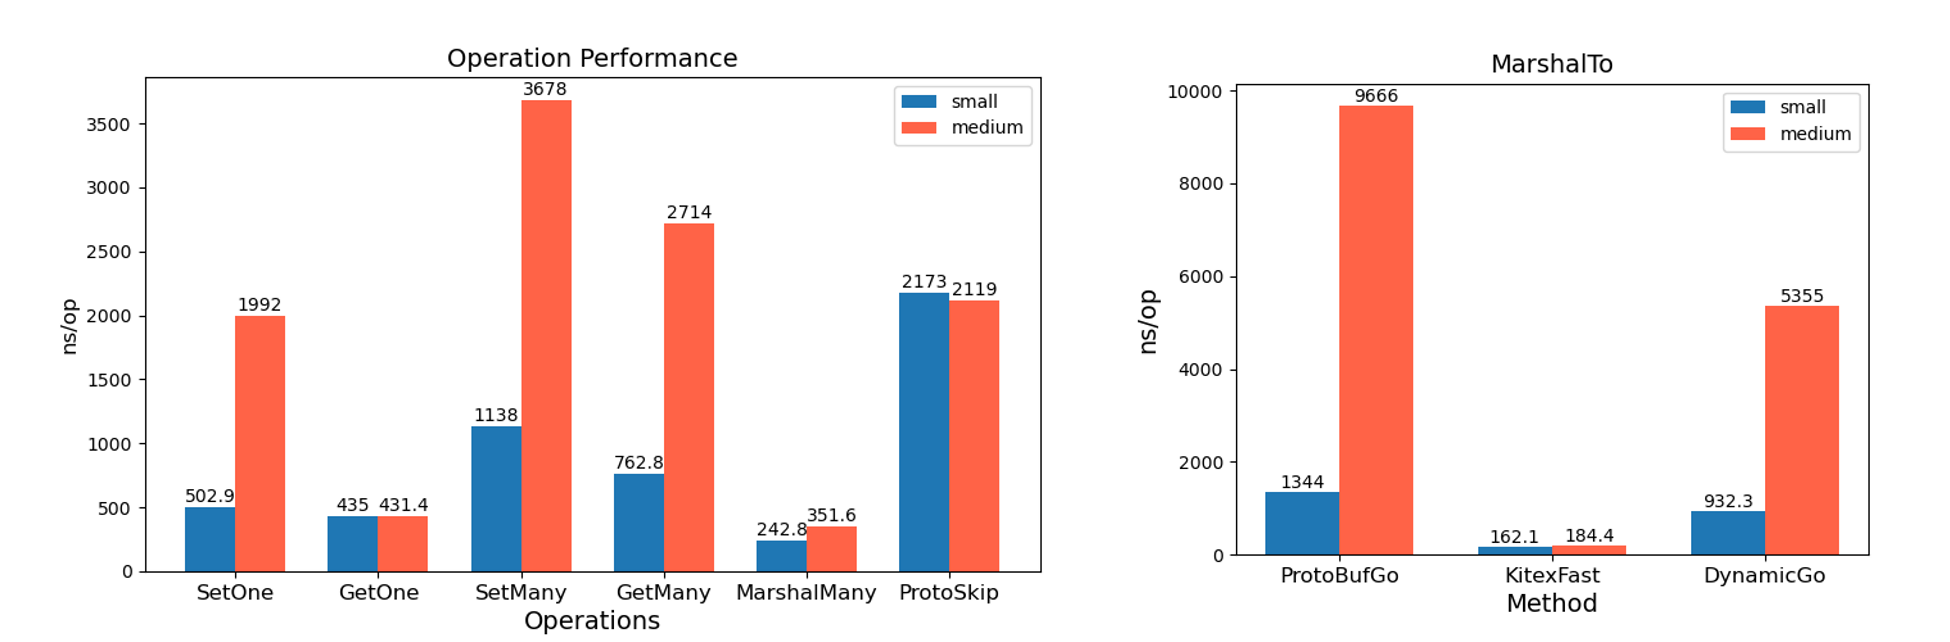
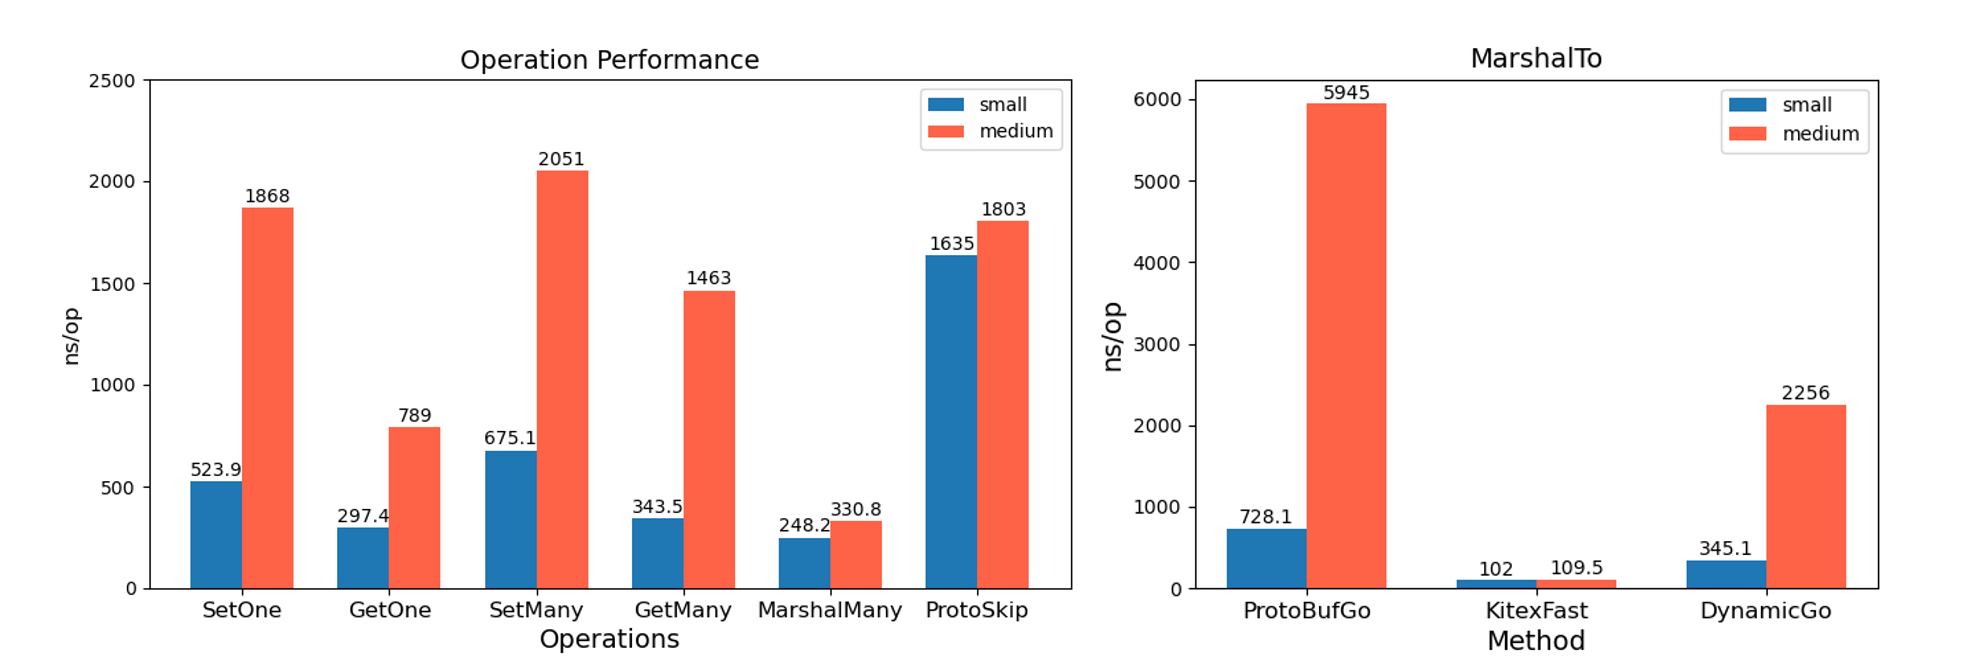
docs(proto): update IINTRODUCTION

diff --git a/proto/INTRODUCTION.md b/proto/INTRODUCTION.md
@@ -259,7 +259,7 @@ JSON——>ProtoBuf 的转换过程如下：
 5. 更新输入和输出字节流位置，跳回第 1 步循环处理，直到处理完输入流数据。
 
 ## 性能测试
-构造与thrift性能测试基本相同的[baseline.proto](../testdata/idl/baseline.proto)文件，定义了对应的简单（[Small](../testdata/idl/baseline.proto#L7)）、复杂（[Medium](../testdata/idl/baseline.proto#L23)）、简单缺失（[SmallPartial](../testdata/idl/baseline.proto#L17)）、复杂缺失（[MediumPartial](../testdata/idl/baseline.proto#L41)） 两个对应子集，并用kitex命令生成了对应的[baseline.pb.go](../testdata/kitex_gen/pb/baseline/baseline.pb.go)。
+构造与thrift性能测试基本相同的[baseline.proto](../testdata/idl/baseline.proto)文件，定义了对应的简单（[Small](../testdata/idl/baseline.proto#L6)）、复杂（[Medium](../testdata/idl/baseline.proto#L22)）、简单缺失（[SmallPartial](../testdata/idl/baseline.proto#L16)）、复杂缺失（[MediumPartial](../testdata/idl/baseline.proto#L40)） 两个对应子集，并用kitex命令生成了对应的[baseline.pb.go](../testdata/kitex_gen/pb/baseline/baseline.pb.go)。
 主要与Protobuf-Go官方源码进行比较，部分测试与kitex-fast也进行了比较，测试环境如下：
 - OS：Windows 11 Pro Version 23H2
 - GOARCH: amd64
@@ -268,31 +268,31 @@ JSON——>ProtoBuf 的转换过程如下：
 
 ### 反射
 - 代码：[dynamicgo/testdata/baseline_pg_test.go](../testdata/baseline_pg_test.go)
-- set/get方法性能比较请查看protobuf字段定量测试结果。
-- MarshalTo方法：相比protobufGo提升随着数据规模的增大趋势越明显，ns/op开销约为源码方法的0.55~0.69。
+- 图中列举了DOM常用操作的性能，测试细节与thrift相同。
+- MarshalTo方法：相比protobufGo提升随着数据规模的增大趋势越明显，ns/op开销约为源码方法的0.37 ~ 0.47。
   
 ![](../image/intro-17.png)
 
 ### 字段Get/Set定量测试
-- 代码：[dynamicgo/testdata/baseline_pg_test.go#BenchmarkProtoRationGet](../testdata/baseline_pg_test.go#L1529)
-- [factor](../testdata/baseline_pg_test.go#L1476)用于修改从上到下扫描proto文件字段获取比率。
-- 定量测试比较方法是protobufGo的dynamicpb模块和DynamicGo的Get/SetByPath，SetMany。
+- 代码：[dynamicgo/testdata/baseline_pg_test.go#BenchmarkRationGet_DynamicGo](../testdata/baseline_pg_test.go#L1516)
+- [factor](../testdata/baseline_pg_test.go#L1472)用于修改从上到下扫描proto文件字段获取比率。
+- 定量测试比较方法是protobufGo的dynamicpb模块和DynamicGo的Get/SetByPath，SetMany，测试对象是medium data的情况。
 - Set/Get字段定量测试结果均优于ProtobufGo，且在获取字段越稀疏的情况下性能加速越明显，因为protobuf源码不论获取多少比率的字段，都需要完整序列化全体对象，而dynamicgo则是直接解析buf完成copy。
-- setmany性能加速更明显，在100%字段下ns/op开销约为0.22。
+- setmany性能加速更明显，在100%字段下ns/op开销约为0.19。
 
 ![](../image/intro-18.png)
 
 ### 序列化/反序列化
-- 代码：[dynamicgo/testdata/baseline_pg_test.go#BenchmarkProtoMarshalAll_DynamicGo](../testdata/baseline_pg_test.go#L1128)
-- 序列化在medium规模的数据上性能优势更明显，small规模略高于protobufGo，ns/op开销约为源码的0.43~1.65。
-- 反序列化在reuse模式下性能优于ProtobufGo，ns/op开销约为源码的0.64~0.82，随数据规模增大性能优势增加。
+- 代码：[dynamicgo/testdata/baseline_pg_test.go#BenchmarkProtoMarshalAll_DynamicGo](../testdata/baseline_pg_test.go#L1121)
+- 序列化在medium规模的数据上性能优势更明显，small规模略高于protobufGo，ns/op开销约为源码的0.50~1.52。
+- 反序列化在reuse模式下，small模式与protobufGo基本性能相同，在medium规模数据上性能优势更明显，ns/op开销约为源码的0.61 ~ 0.64，随数据规模增大性能优势增加。
 ![](../image/intro-19.png)
 ![](../image/intro-20.png)
 
 ### 协议转换
-- Json2Protobuf优于ProtobufGo，ns/op性能开销约为源码的0.39~0.58，随着数据量规模增大优势增加。
+- Json2Protobuf优于ProtobufGo，ns/op性能开销约为源码的0.18 ~ 0.20，随着数据量规模增大优势增加。
 - 代码：[dynamicgo/testdata/baseline_j2p_test.go](../testdata/baseline_j2p_test.go)
-- Protobuf2Json优于ProtobufGo和Sonic+Kitex，ns/op开销约为源码的0.22 ~ 0.26， 开销约为Sonic+Kitex的0.61~0.79，随着数据量规模增大优势增加。
+- Protobuf2Json优于ProtobufGo和Sonic+Kitex，ns/op开销约为源码的0.19 ~ 0.21， 开销约为Sonic+Kitex的0.74 ~ 0.77，随着数据量规模增大优势增加。
 - 代码：[dynamicgo/testdata/baseline_p2j_test.go](../testdata/baseline_p2j_test.go)
   
 ![](../image/intro-21.png)
